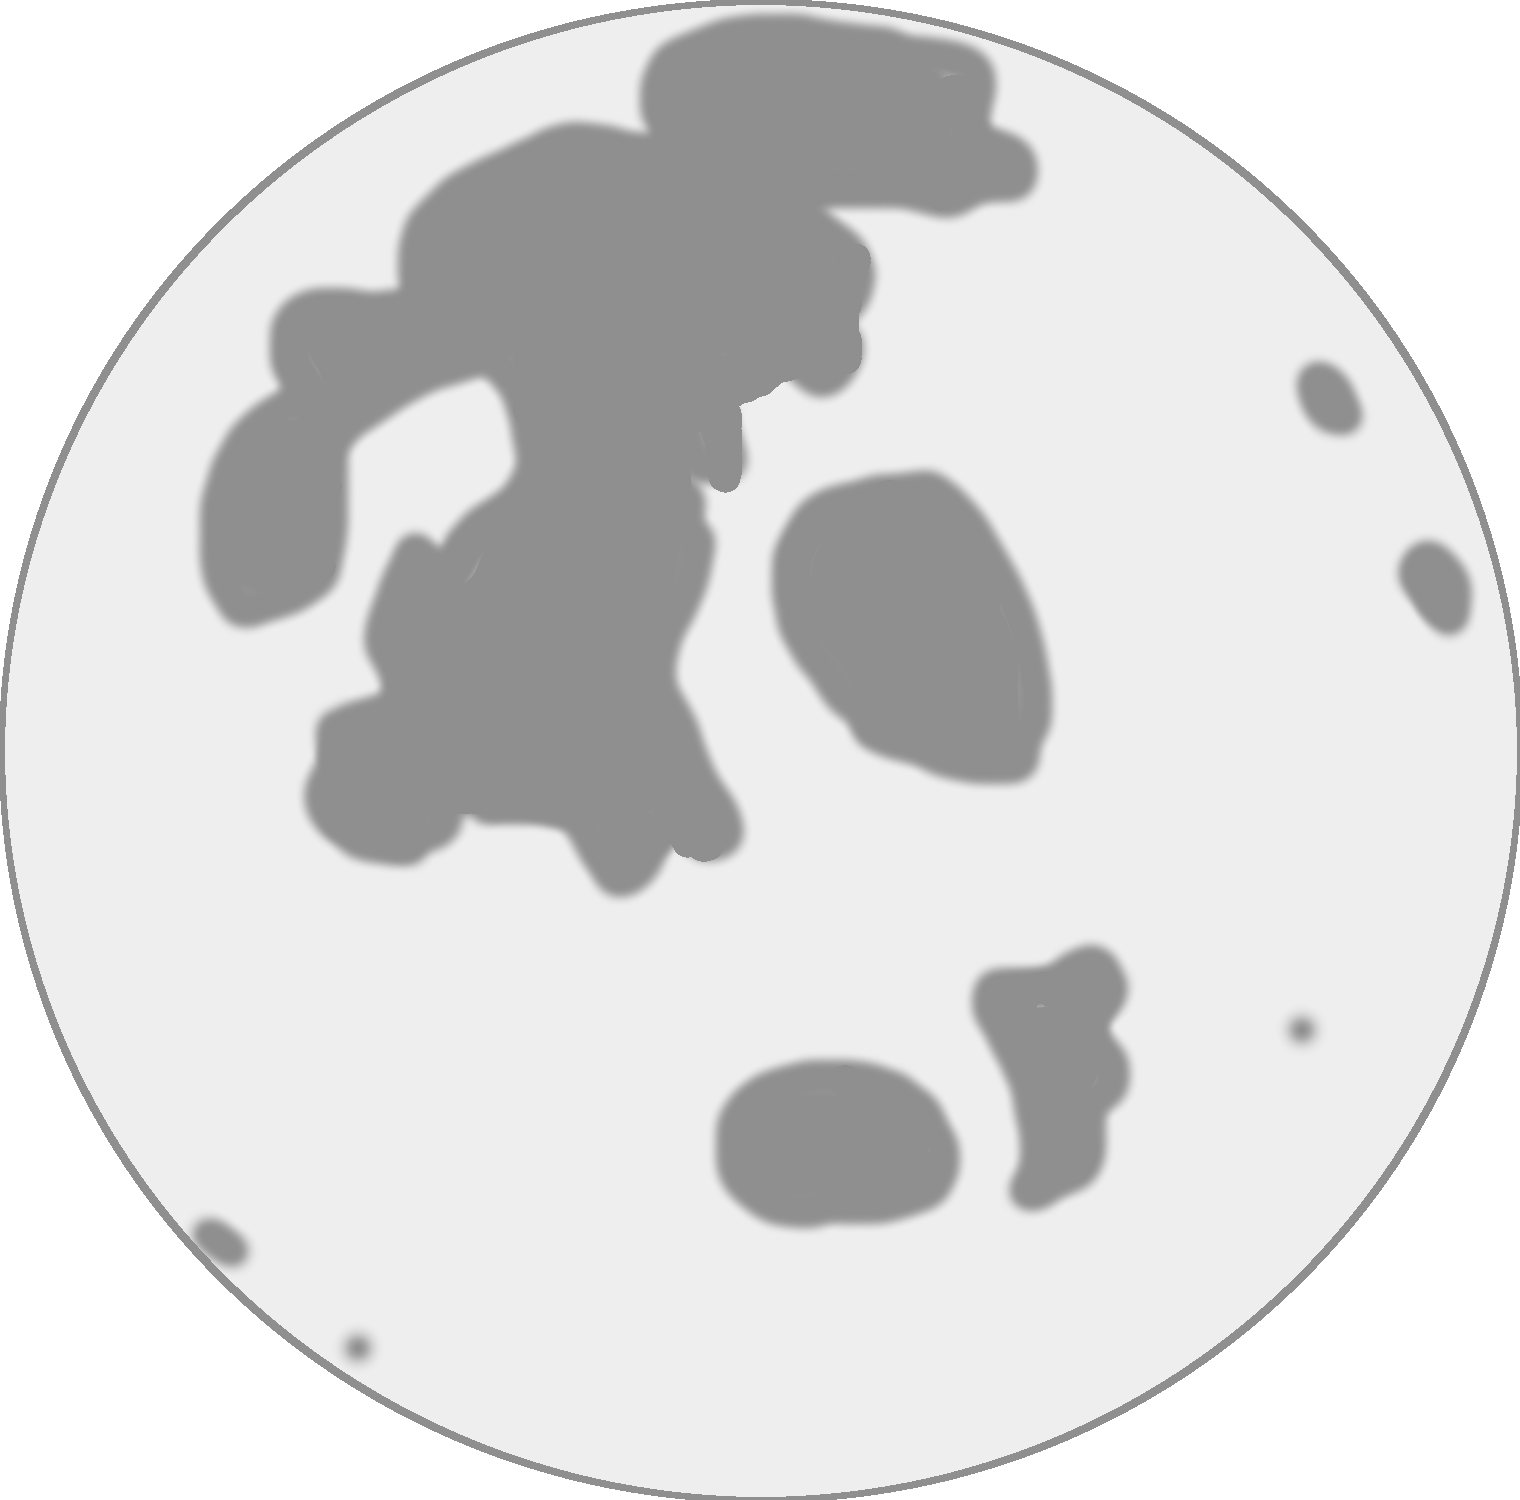
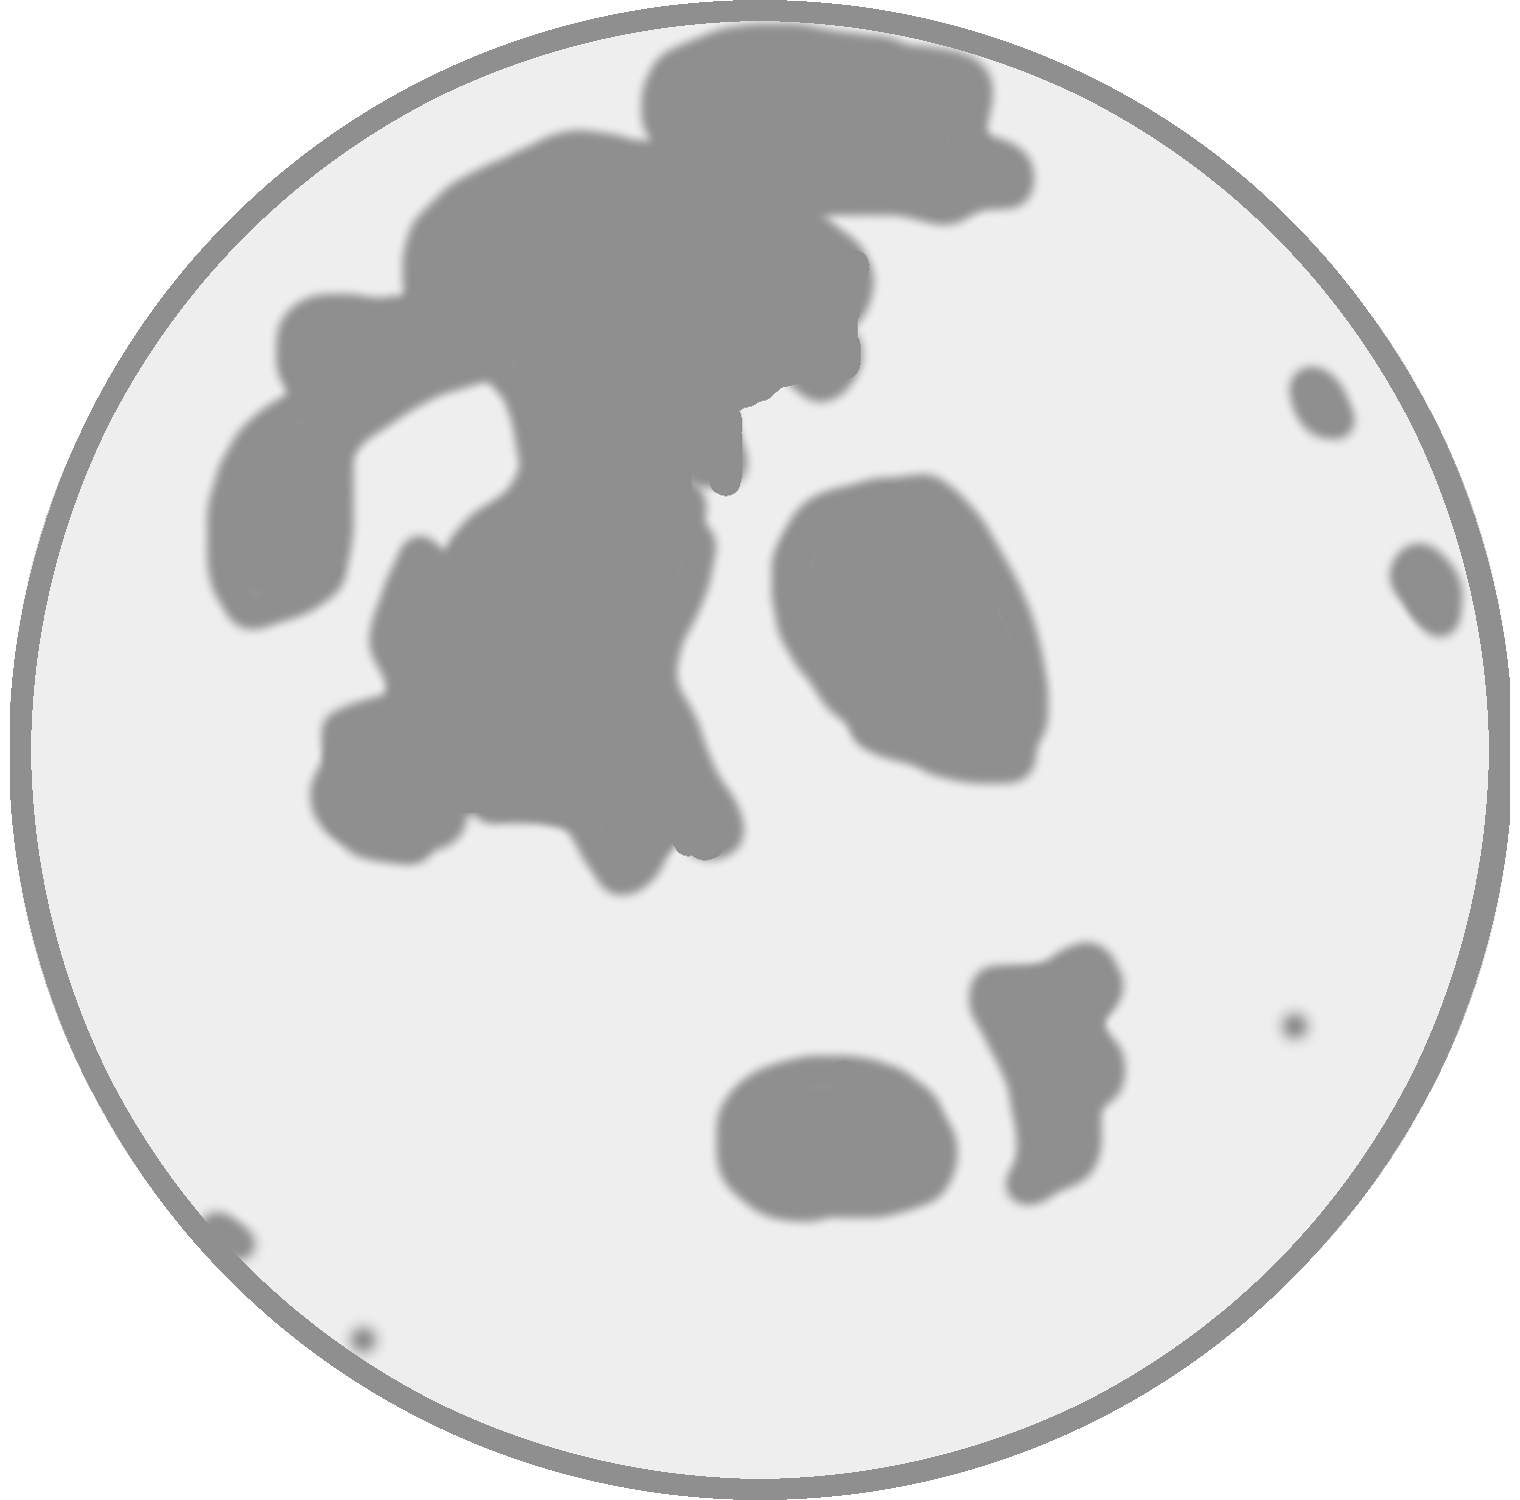
touched up moon, added stage clear screen

diff --git a/core/src/broken/shotgun/throwthemoon/stages/GameStage.java b/core/src/broken/shotgun/throwthemoon/stages/GameStage.java
@@ -29,9 +29,12 @@ import com.badlogic.gdx.assets.AssetManager;
 import com.badlogic.gdx.assets.loaders.MusicLoader;
 import com.badlogic.gdx.assets.loaders.resolvers.InternalFileHandleResolver;
 import com.badlogic.gdx.audio.Music;
+import com.badlogic.gdx.graphics.Color;
 import com.badlogic.gdx.graphics.g2d.Batch;
 import com.badlogic.gdx.graphics.g2d.BitmapFont;
 import com.badlogic.gdx.graphics.g2d.SpriteBatch;
+import com.badlogic.gdx.graphics.glutils.ShapeRenderer;
+import com.badlogic.gdx.graphics.glutils.ShapeRenderer.ShapeType;
 import com.badlogic.gdx.math.Interpolation;
 import com.badlogic.gdx.math.Vector2;
 import com.badlogic.gdx.scenes.scene2d.Actor;
@@ -69,18 +72,21 @@ public class GameStage extends Stage {
     private Level currentLevel;
     private int wallIndex = 0;
     private Random random;
+    private boolean fadingOut;
 
     private Background background;
     private Player player;
     private Moon moon;
     private MoonChain chain;
     private Boss boss;
+    private Actor screenFadeActor;
 
     private final LevelDebugRenderer levelDebugRenderer;
     private final StringBuilder screenLogger;
     
     private final Batch uiBatch;
     private final BitmapFont font;
+    private final ShapeRenderer renderer;
 
     private Music music;
 
@@ -99,17 +105,23 @@ public class GameStage extends Stage {
         loadMusic();
 
         random = new Random(System.currentTimeMillis());
+        fadingOut = false;
 
         background = new Background(manager);
         chain = new MoonChain(manager);
         player = new Player(manager);
         moon = new Moon(manager);
+        
+        screenFadeActor = new Actor();
+        screenFadeActor.setBounds(0, 0, Gdx.graphics.getWidth(), Gdx.graphics.getHeight());
+        screenFadeActor.setColor(Color.CLEAR);
 
         levelDebugRenderer = new LevelDebugRenderer();
         screenLogger = new StringBuilder();
         
         uiBatch = new SpriteBatch();
         font = new BitmapFont();
+        renderer = new ShapeRenderer();
 
         touchPoint = new Vector2();
 
@@ -277,7 +289,10 @@ public class GameStage extends Stage {
         
         logPoisitions();
 
-        if(isChainOffscreen()) {
+        if(isStageClear()){
+        	// do nothing
+        }
+        else if(isChainOffscreen()) {
             startGameOver();
         }
         else if(triggerSpawnWall(player.getX())) {
@@ -449,6 +464,18 @@ public class GameStage extends Stage {
     public void draw() {
         super.draw();
         
+        if(isStageClear()) {
+        	renderer.begin(ShapeType.Filled);
+        	renderer.setColor(screenFadeActor.getColor());
+        	renderer.rect(
+    			screenFadeActor.getX(), screenFadeActor.getY(), 
+    			screenFadeActor.getOriginX(), screenFadeActor.getOriginY(),
+    			screenFadeActor.getWidth(), screenFadeActor.getHeight(),
+    			screenFadeActor.getScaleX(), screenFadeActor.getScaleY(), 
+    			screenFadeActor.getRotation());
+        	renderer.end();
+        }
+        
         if(debug) {
 	        uiBatch.begin();
 			font.draw(uiBatch, screenLogger.toString(), 50, 200);
@@ -462,6 +489,7 @@ public class GameStage extends Stage {
         super.dispose();
         uiBatch.dispose();
         font.dispose();
+        renderer.dispose();
     }
 
     @Override
@@ -486,6 +514,8 @@ public class GameStage extends Stage {
         addActor(chain);
         addActor(player);
         addActor(levelDebugRenderer);
+        
+        screenFadeActor.setColor(Color.CLEAR);
 
         levelDebugRenderer.setLevel(currentLevel);
 
@@ -513,4 +543,33 @@ public class GameStage extends Stage {
     private void vlog(String line) {
     	screenLogger.append(line + "\n");
     }
+
+	public boolean isStageClear() {
+		return boss != null && boss.isDefeated();
+	}
+	
+	public void stopMusic() {
+		music.stop();
+	}
+	
+	public Actor getScreenFadeActor() {
+		return screenFadeActor;
+	}
+
+	public void fadeOut(Runnable runnable) {
+		if(fadingOut) return;
+		
+		fadingOut = true;
+		
+		addActor(screenFadeActor);
+		
+		screenFadeActor.addAction(
+    			Actions.sequence(
+					Actions.color(Color.BLACK, 5f), 
+					Actions.run(runnable)));
+	}
+
+	public boolean isFadingOut() {
+		return fadingOut;
+	}
 }

diff --git a/core/src/broken/shotgun/throwthemoon/screens/StageClearScreen.java b/core/src/broken/shotgun/throwthemoon/screens/StageClearScreen.java
@@ -1,0 +1,111 @@
+package broken.shotgun.throwthemoon.screens;
+
+import broken.shotgun.throwthemoon.ThrowTheMoonGame;
+
+import com.badlogic.gdx.Gdx;
+import com.badlogic.gdx.Screen;
+import com.badlogic.gdx.assets.AssetManager;
+import com.badlogic.gdx.assets.loaders.TextureLoader;
+import com.badlogic.gdx.assets.loaders.resolvers.InternalFileHandleResolver;
+import com.badlogic.gdx.graphics.Color;
+import com.badlogic.gdx.graphics.GL20;
+import com.badlogic.gdx.graphics.Texture;
+import com.badlogic.gdx.graphics.g2d.Batch;
+import com.badlogic.gdx.graphics.g2d.BitmapFont;
+import com.badlogic.gdx.graphics.g2d.SpriteBatch;
+import com.badlogic.gdx.scenes.scene2d.InputEvent;
+import com.badlogic.gdx.scenes.scene2d.Stage;
+import com.badlogic.gdx.scenes.scene2d.ui.Image;
+import com.badlogic.gdx.scenes.scene2d.utils.ActorGestureListener;
+import com.badlogic.gdx.utils.Align;
+import com.badlogic.gdx.utils.viewport.StretchViewport;
+
+public class StageClearScreen implements Screen {
+	private static final float WIDTH = 1280f;
+    private static final float HEIGHT = 720;
+    
+	private final AssetManager manager;
+	private final Stage stage;
+	private final Batch uiBatch;
+	
+	private static final String TEXTURE_FILENAME = "stageclearbg.png";
+	private Texture background;
+	private BitmapFont font;
+	private static final String STAGE_CLEAR_MESSAGE = "Stage Clear!";
+	
+	public StageClearScreen(final ThrowTheMoonGame game) {
+        this.manager = new AssetManager();
+        this.stage = new Stage(new StretchViewport(WIDTH, HEIGHT));
+        this.uiBatch = new SpriteBatch();
+        
+        manager.setLoader(Texture.class, new TextureLoader(new InternalFileHandleResolver()));
+        manager.load(TEXTURE_FILENAME, Texture.class);
+        manager.finishLoading();
+
+        background = manager.get(TEXTURE_FILENAME);
+        Image backgroundImg = new Image(background);
+        stage.addActor(backgroundImg);
+        
+        font = new BitmapFont();
+        font.setColor(Color.WHITE);
+        
+        Gdx.input.setInputProcessor(stage);
+        
+        stage.addListener(new ActorGestureListener() {
+
+			@Override
+			public void tap(InputEvent event, float x, float y, int count, int button) {
+				game.setScreen(new GameScreen(game));
+				
+				super.tap(event, x, y, count, button);
+			}
+        	
+        });
+	}
+
+	@Override
+	public void show() {
+		
+	}
+
+	@Override
+	public void render(float delta) {
+		Gdx.gl.glClearColor(0.0f, 0.0f, 0.0f, 1.0f);
+        Gdx.gl.glClear(GL20.GL_COLOR_BUFFER_BIT);
+
+        stage.draw();
+        stage.act(delta);
+        
+        uiBatch.begin();
+        font.draw(uiBatch, STAGE_CLEAR_MESSAGE, 0, Gdx.graphics.getHeight() * 0.75f, Gdx.graphics.getWidth(), Align.center, true);
+        uiBatch.end();
+	}
+
+	@Override
+	public void resize(int width, int height) {
+		stage.getViewport().update(width, height, true);
+	}
+
+	@Override
+	public void pause() {
+		
+	}
+
+	@Override
+	public void resume() {
+		
+	}
+
+	@Override
+	public void hide() {
+		
+	}
+
+	@Override
+	public void dispose() {
+		manager.dispose();
+        stage.dispose();
+        font.dispose();
+	}
+
+}

diff --git a/core/src/broken/shotgun/throwthemoon/actors/Boss.java b/core/src/broken/shotgun/throwthemoon/actors/Boss.java
@@ -43,7 +43,6 @@ import com.badlogic.gdx.scenes.scene2d.actions.Actions;
 import static com.badlogic.gdx.scenes.scene2d.actions.Actions.color;
 import static com.badlogic.gdx.scenes.scene2d.actions.Actions.fadeOut;
 import static com.badlogic.gdx.scenes.scene2d.actions.Actions.forever;
-import static com.badlogic.gdx.scenes.scene2d.actions.Actions.parallel;
 import static com.badlogic.gdx.scenes.scene2d.actions.Actions.removeActor;
 import static com.badlogic.gdx.scenes.scene2d.actions.Actions.sequence;
 
@@ -65,6 +64,8 @@ public class Boss extends Actor {
     private final Rectangle collisionArea;
 
     private int health;
+    private boolean raging;
+    private Color color;
 
     public Boss(final AssetManager manager) {
         manager.setLoader(Texture.class, new TextureLoader(new InternalFileHandleResolver()));
@@ -88,7 +89,10 @@ public class Boss extends Actor {
 
         collisionArea = new Rectangle(getX(), getY() + 80, (int) getWidth(), (int) getHeight() - 170);
 
-        health = 5;
+        health = 50;
+        raging = false;
+        color = Color.WHITE;
+        setColor(color);
     }
 
     @Override
@@ -158,19 +162,33 @@ public class Boss extends Actor {
             die();
             return;
         }
+        
+        if (health <= 20) {
+        	rage();
+        }
 
-        addAction(
-            sequence(
-                parallel(
-                    Actions.moveBy(20 * direction, 0, 0.3f, Interpolation.circleOut), sequence(color(Color.BLACK, 0.15f), color(Color.WHITE, 0.15f))),
-                    Actions.moveTo(getX(), getY(), 0.1f, Interpolation.circleIn)));
+        addAction(sequence(color(Color.BLACK, 0.15f), color(color, 0.15f)));
     }
 
-    public void die() {
+    private void rage() {
+		if(raging) return;
+		
+		raging = true;
+		
+		color = Color.RED;
+		
+		addAction(color(Color.RED, 1f));
+	}
+
+	private void die() {
         clearActions();
         addAction(
             sequence(
                 fadeOut(0.4f, Interpolation.fade),
                 removeActor()));
     }
+	
+	public boolean isDefeated() {
+		return health <= 0;
+	}
 }

diff --git a/core/src/broken/shotgun/throwthemoon/screens/GameScreen.java b/core/src/broken/shotgun/throwthemoon/screens/GameScreen.java
@@ -55,7 +55,16 @@ public class GameScreen implements Screen {
         stage.draw();
         stage.act(delta);
 
-        if(stage.isGameOver()) {
+        if(stage.isStageClear() && !stage.isFadingOut()) {
+        	stage.stopMusic();
+        	stage.fadeOut((new Runnable() {
+				@Override
+				public void run() {
+					game.setScreen(new StageClearScreen(game));
+				}
+			}));
+        }
+        else if(stage.isGameOver()) {
             stage.resetLevel();
         }
     }

diff --git a/core/src/broken/shotgun/throwthemoon/actors/Background.java b/core/src/broken/shotgun/throwthemoon/actors/Background.java
@@ -31,7 +31,7 @@ import com.badlogic.gdx.graphics.g2d.Batch;
 import com.badlogic.gdx.scenes.scene2d.Actor;
 
 public class Background extends Actor {
-    private static final String TEXTURE_FILENAME = "background/layers/layer-2.png"; //"background/full-bg.png";
+    private static final String TEXTURE_FILENAME = "background/layers/layer-2.png";
     private static final int TILE_COUNT = 5;
 
     private Texture texture;
